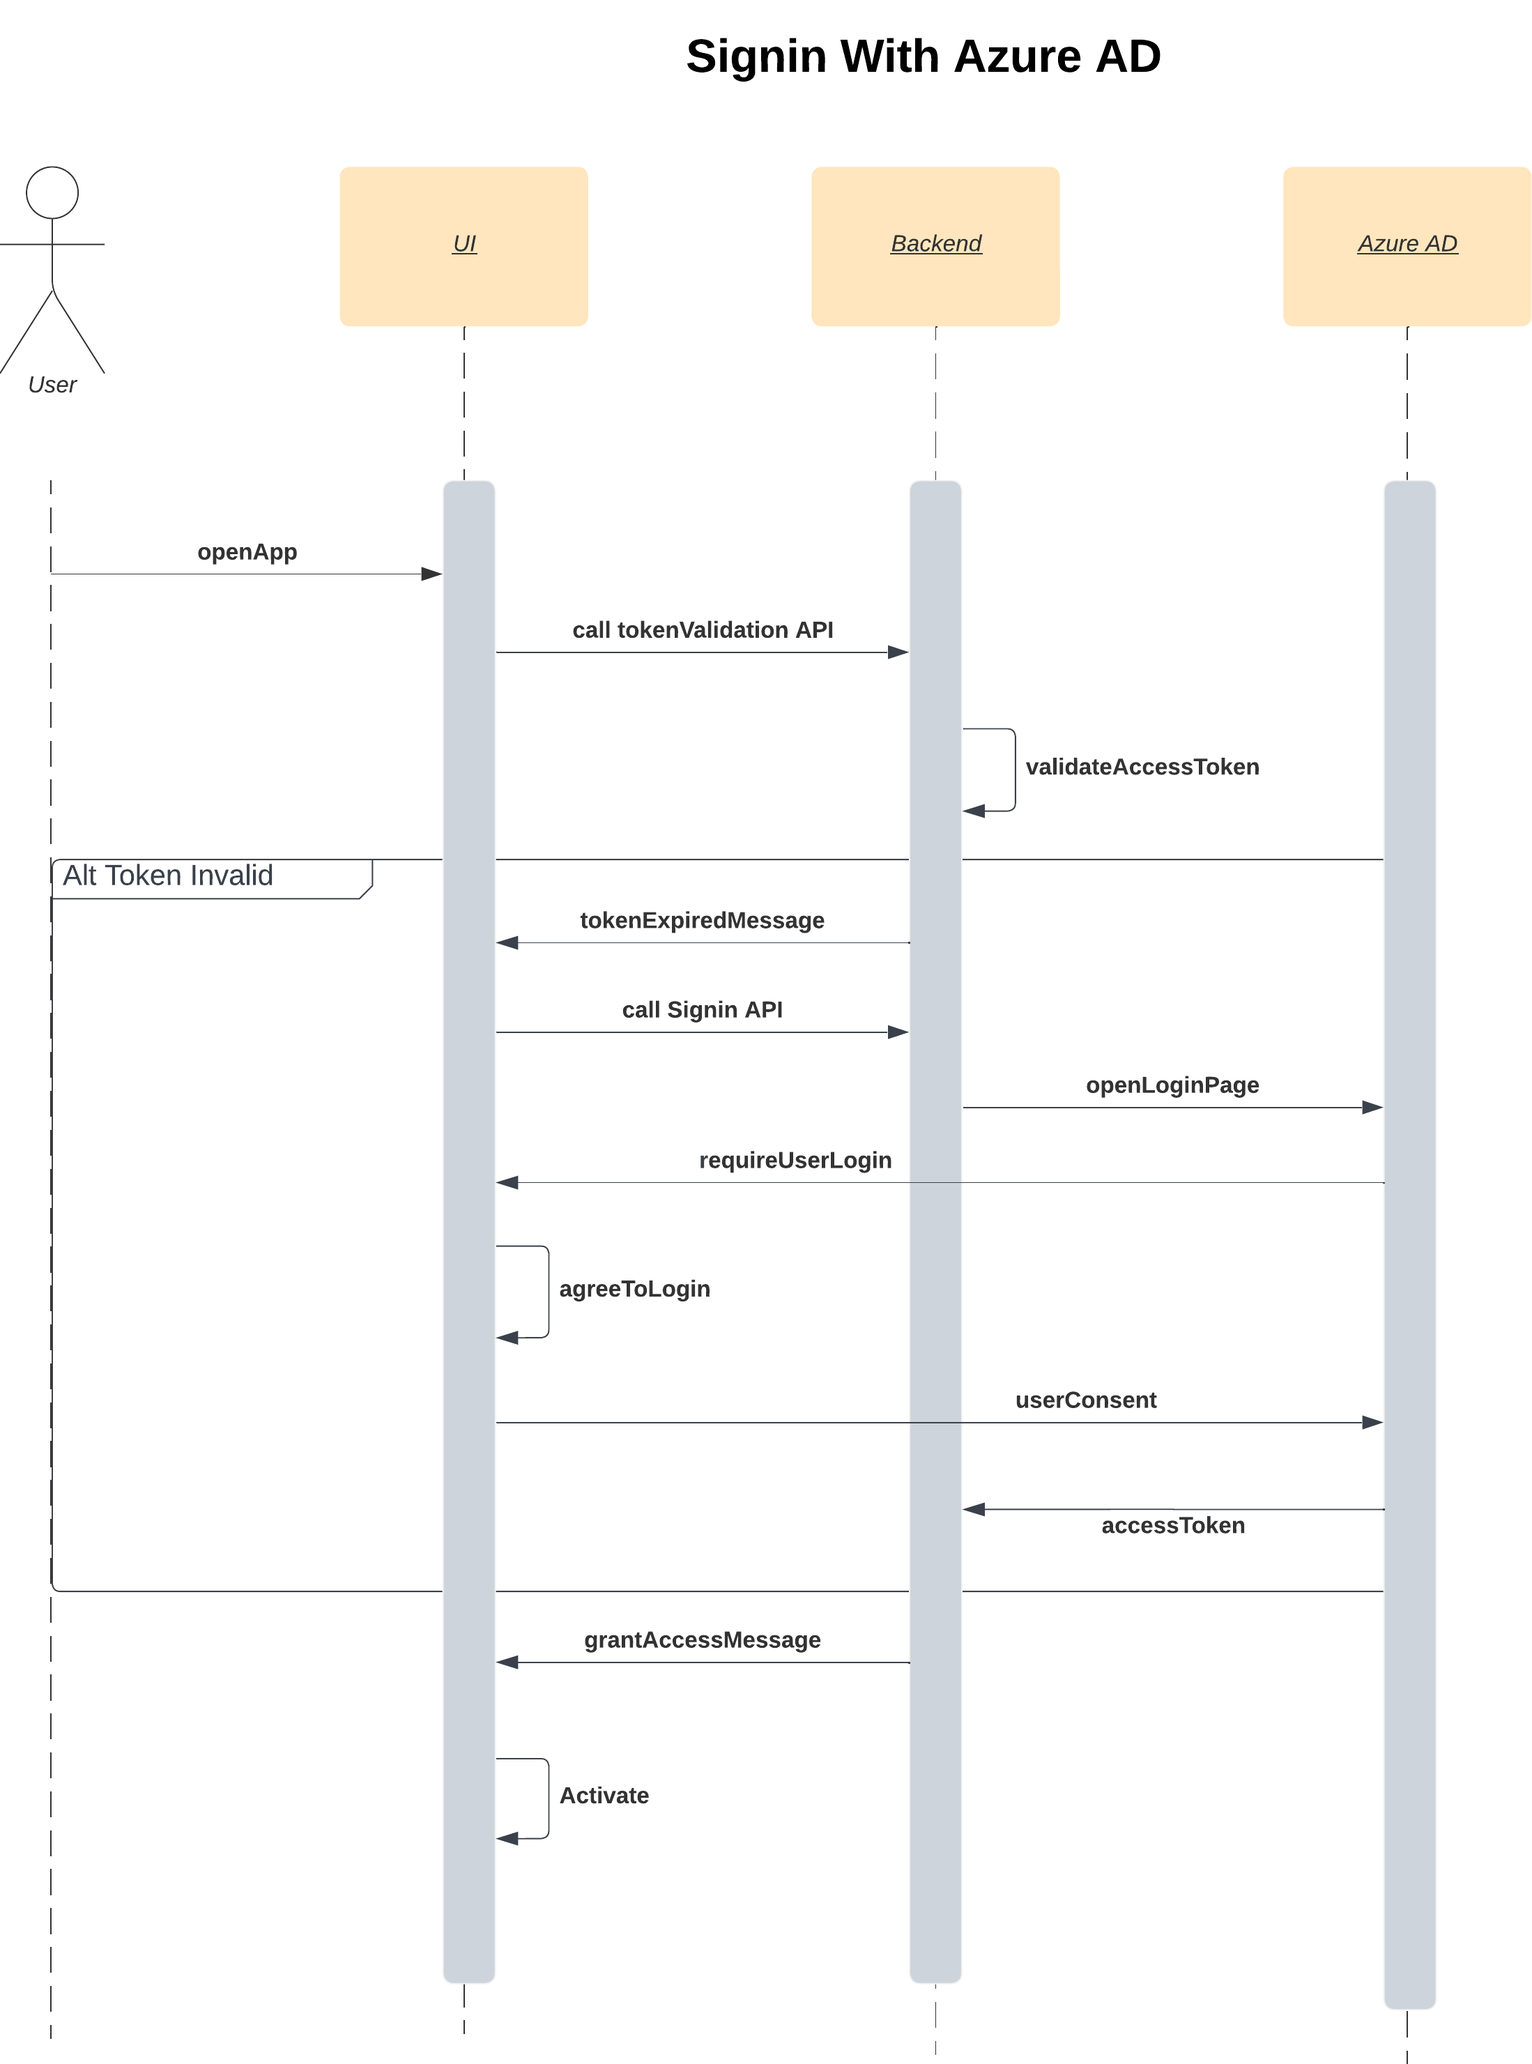
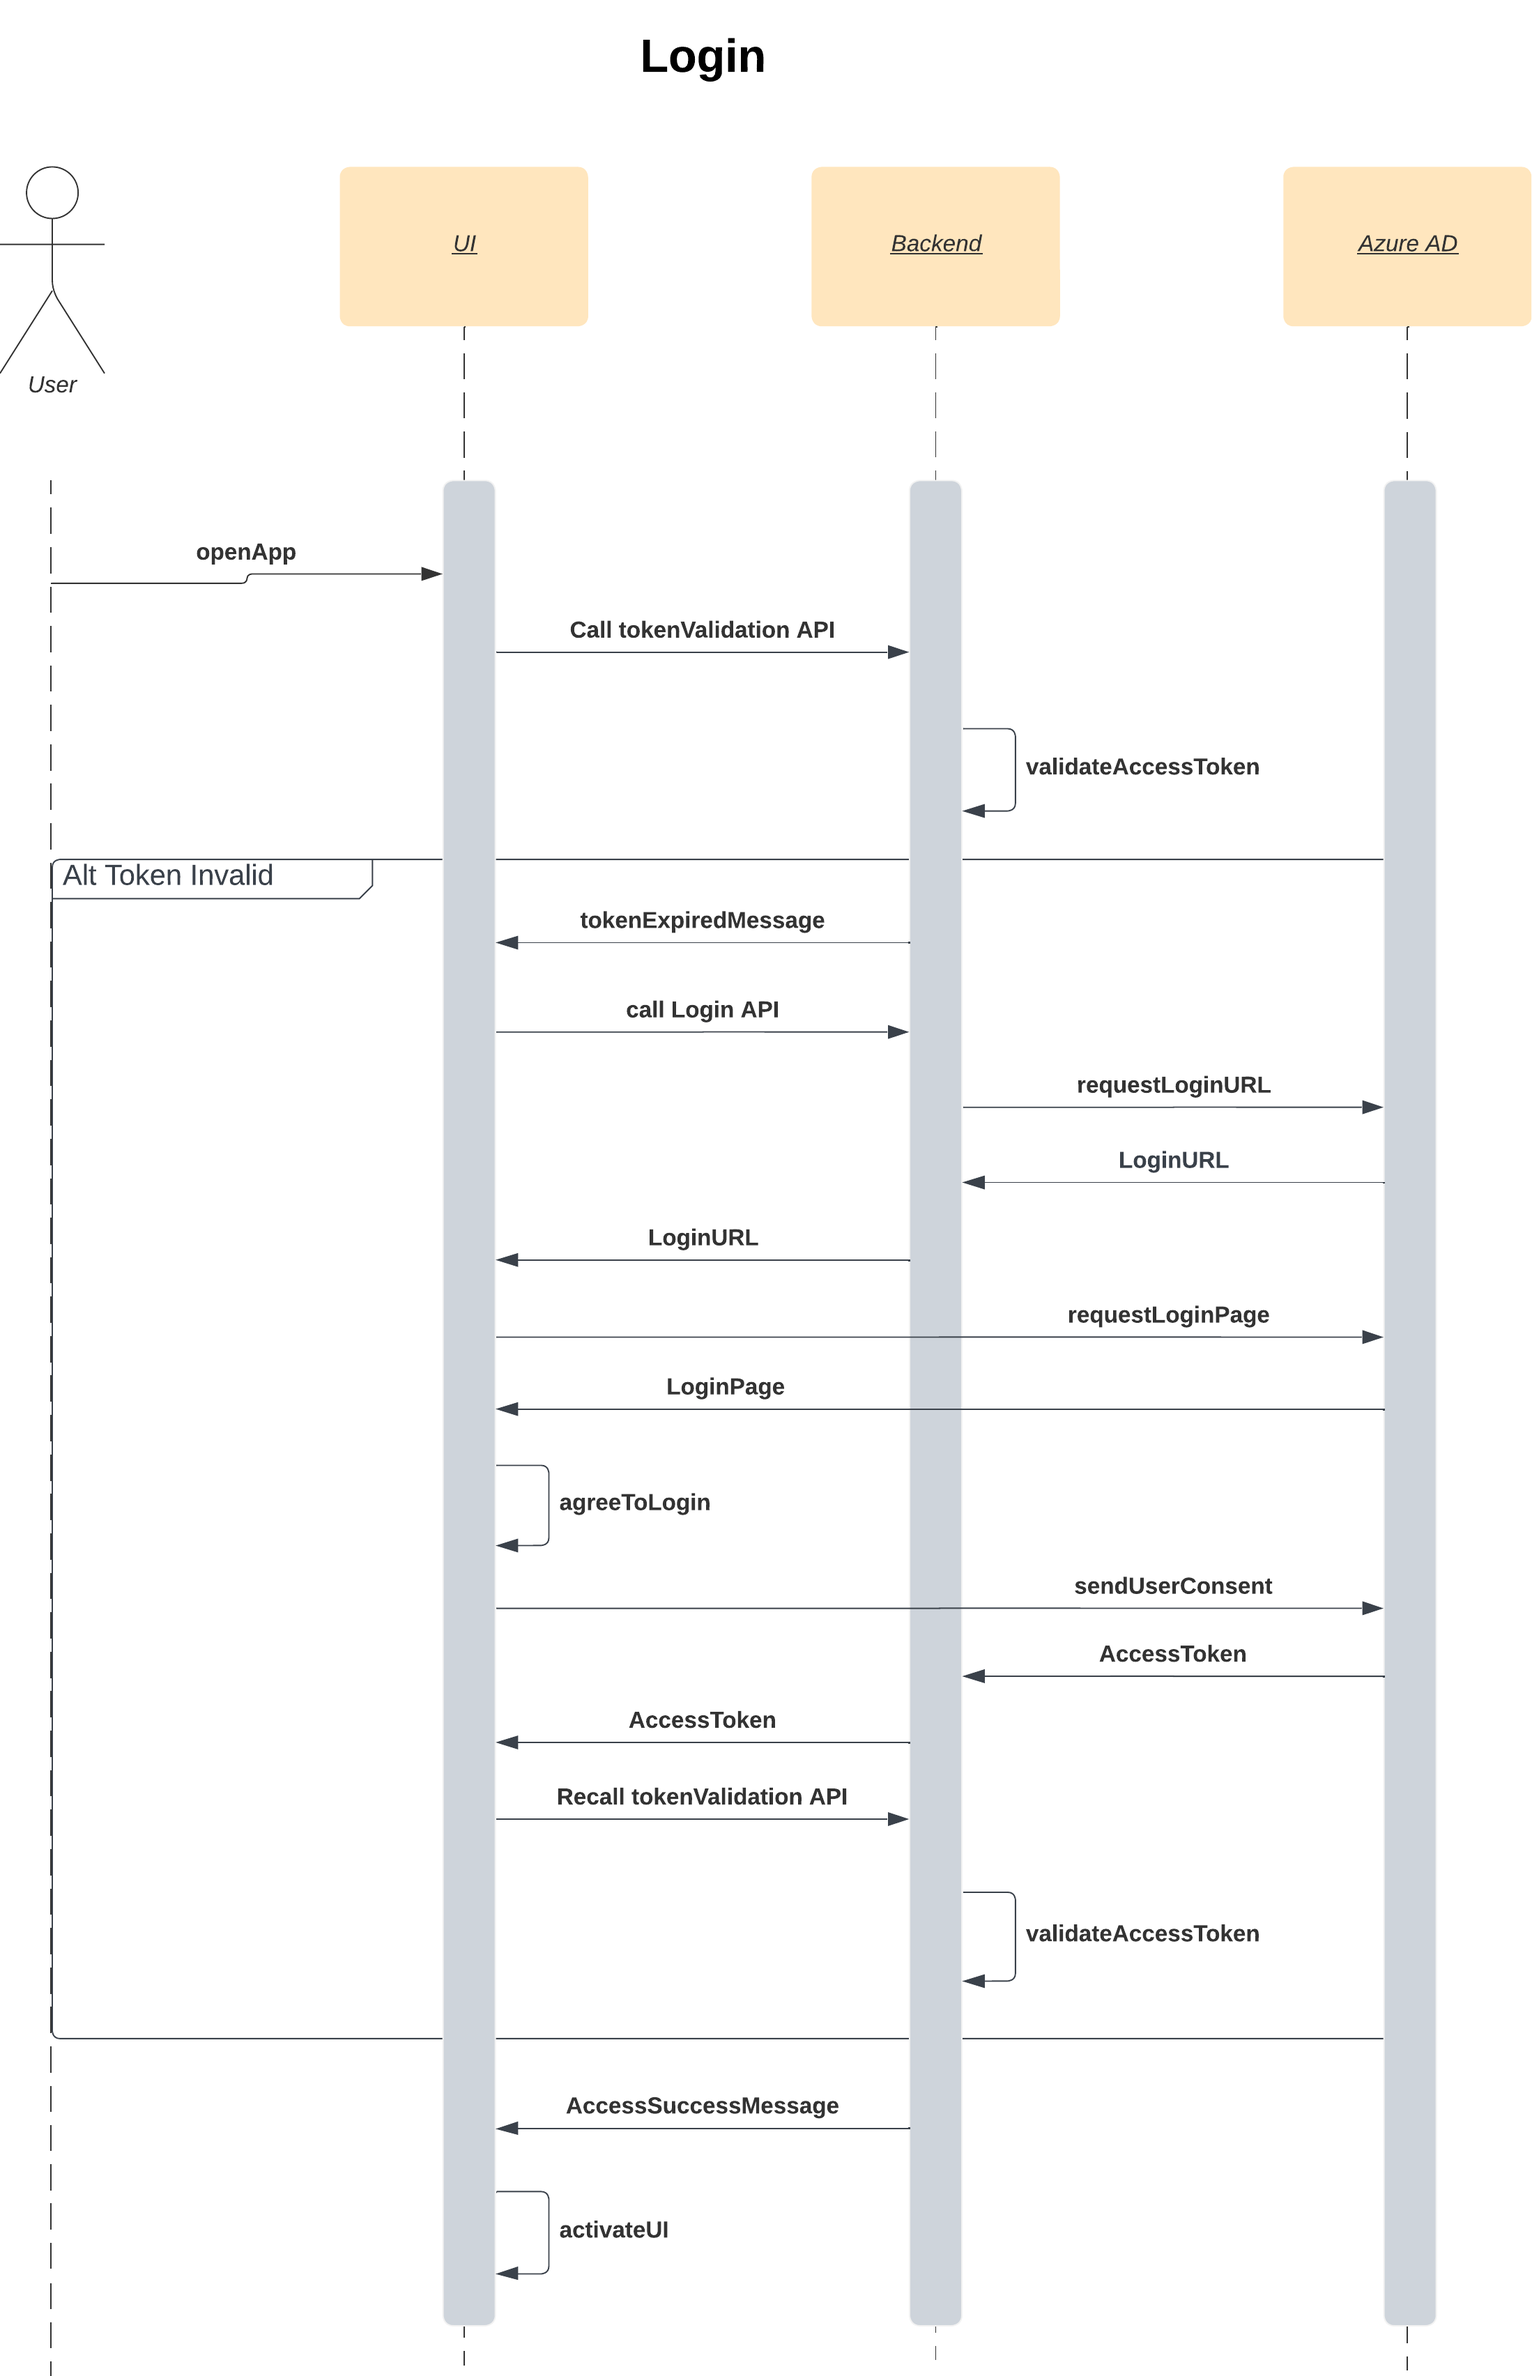
Edit edited login sequence diagram

diff --git a/undergrad-sample-thai.tex b/undergrad-sample-thai.tex
@@ -1449,10 +1449,10 @@ Instagram คือ แอปพลิเคชันบน smartphone และ
  \subsection{เเผนภาพที่ใช้เเสดงการทำงานของระบบ (Sequence Diagram)}
    นำแผนภาพที่เกี่ยวกับการลงทะเบียนออก และแก้ไขแผนภาพที่แสดงขั้นตอนการ login เข้าสู่ระบบใหม่ เพื่อแสดงขั้นตอนที่เปลี่ยนไป
    และแผนภาพที่ได้ทำการแก้ไขใหม่จะออกมาเป็นดังนี้
-   \begin{figure}[!h]\centering
+   \begin{figure}[H]\centering
     \setlength{\fboxrule}{0.5mm} % can define this in the preamble
     \setlength{\fboxsep}{0.5cm}
-    \fbox{\includegraphics[width=15cm]{./Pictures/V5_Sequence_Diagram.png}}
+    \fbox{\includegraphics[width=14cm]{./Pictures/V5_Sequence_Diagram.png}}
     \caption{Edited Login Sequence Diagram}\label{fig:editedloginsequencediagram}
   \end{figure}
   \section{การพัฒนาของโครงการ}
